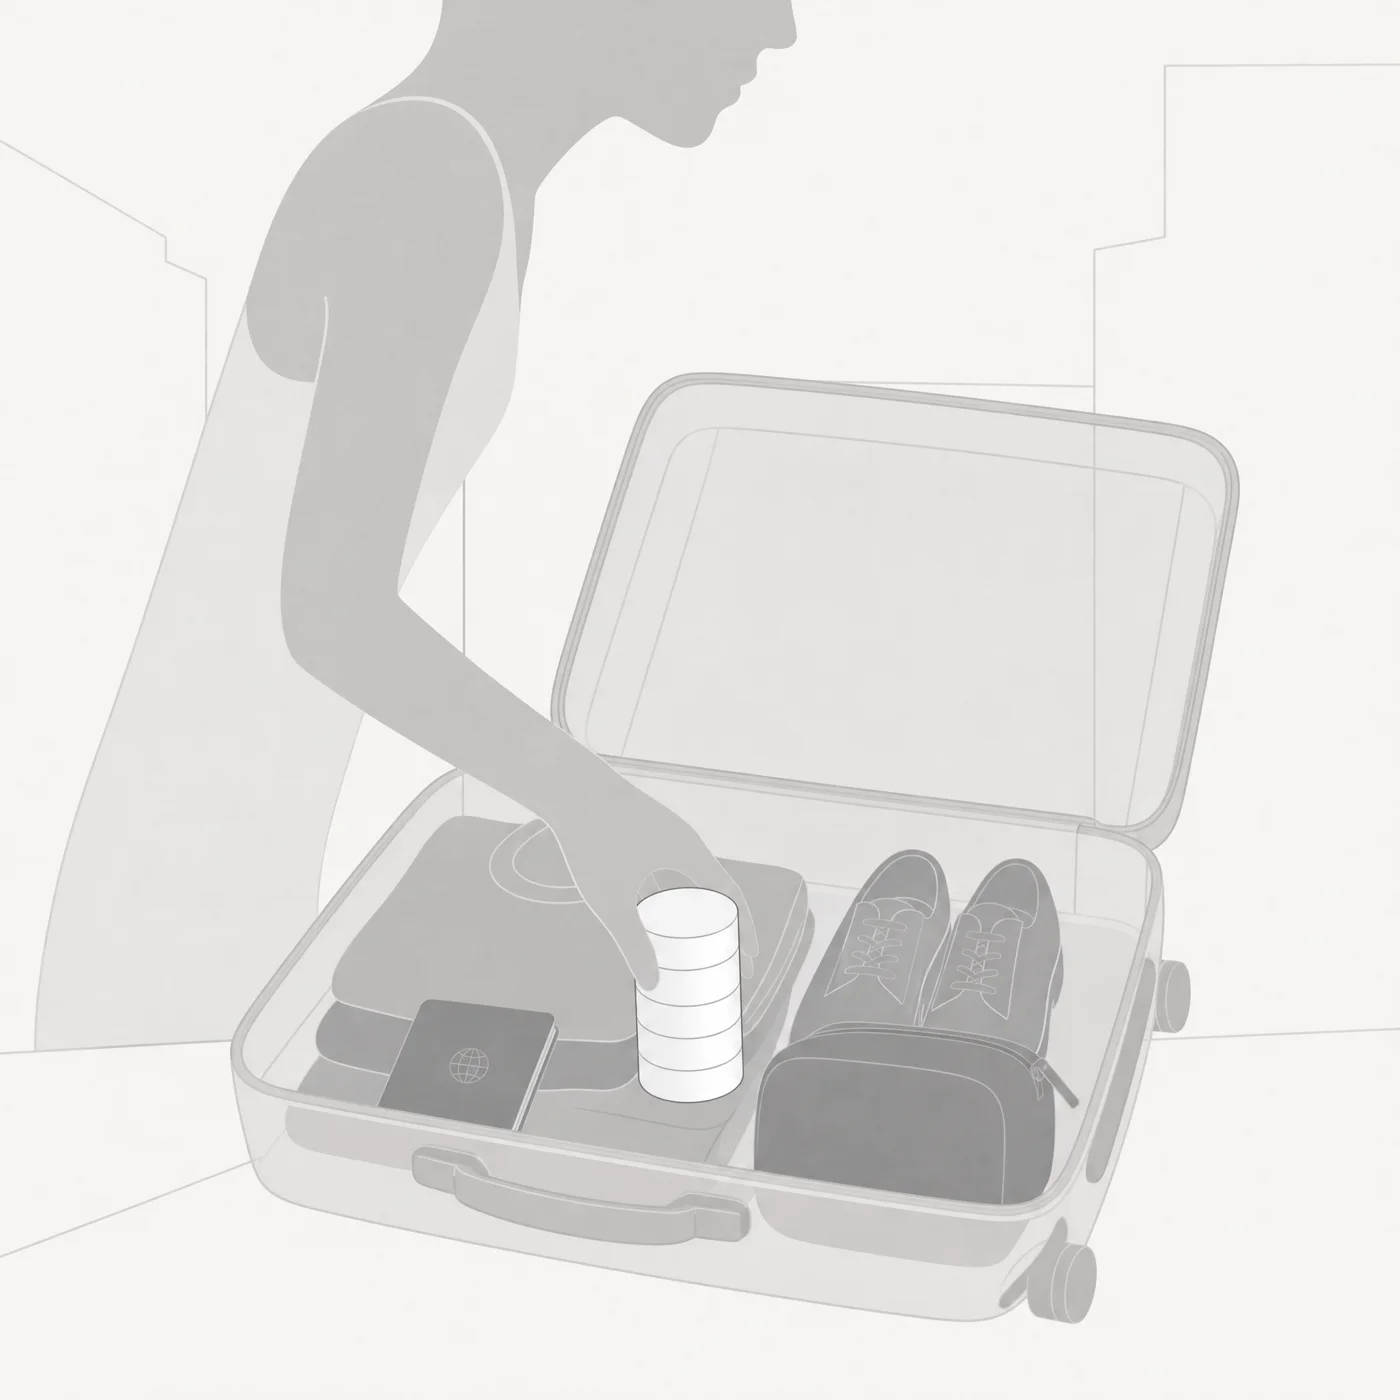
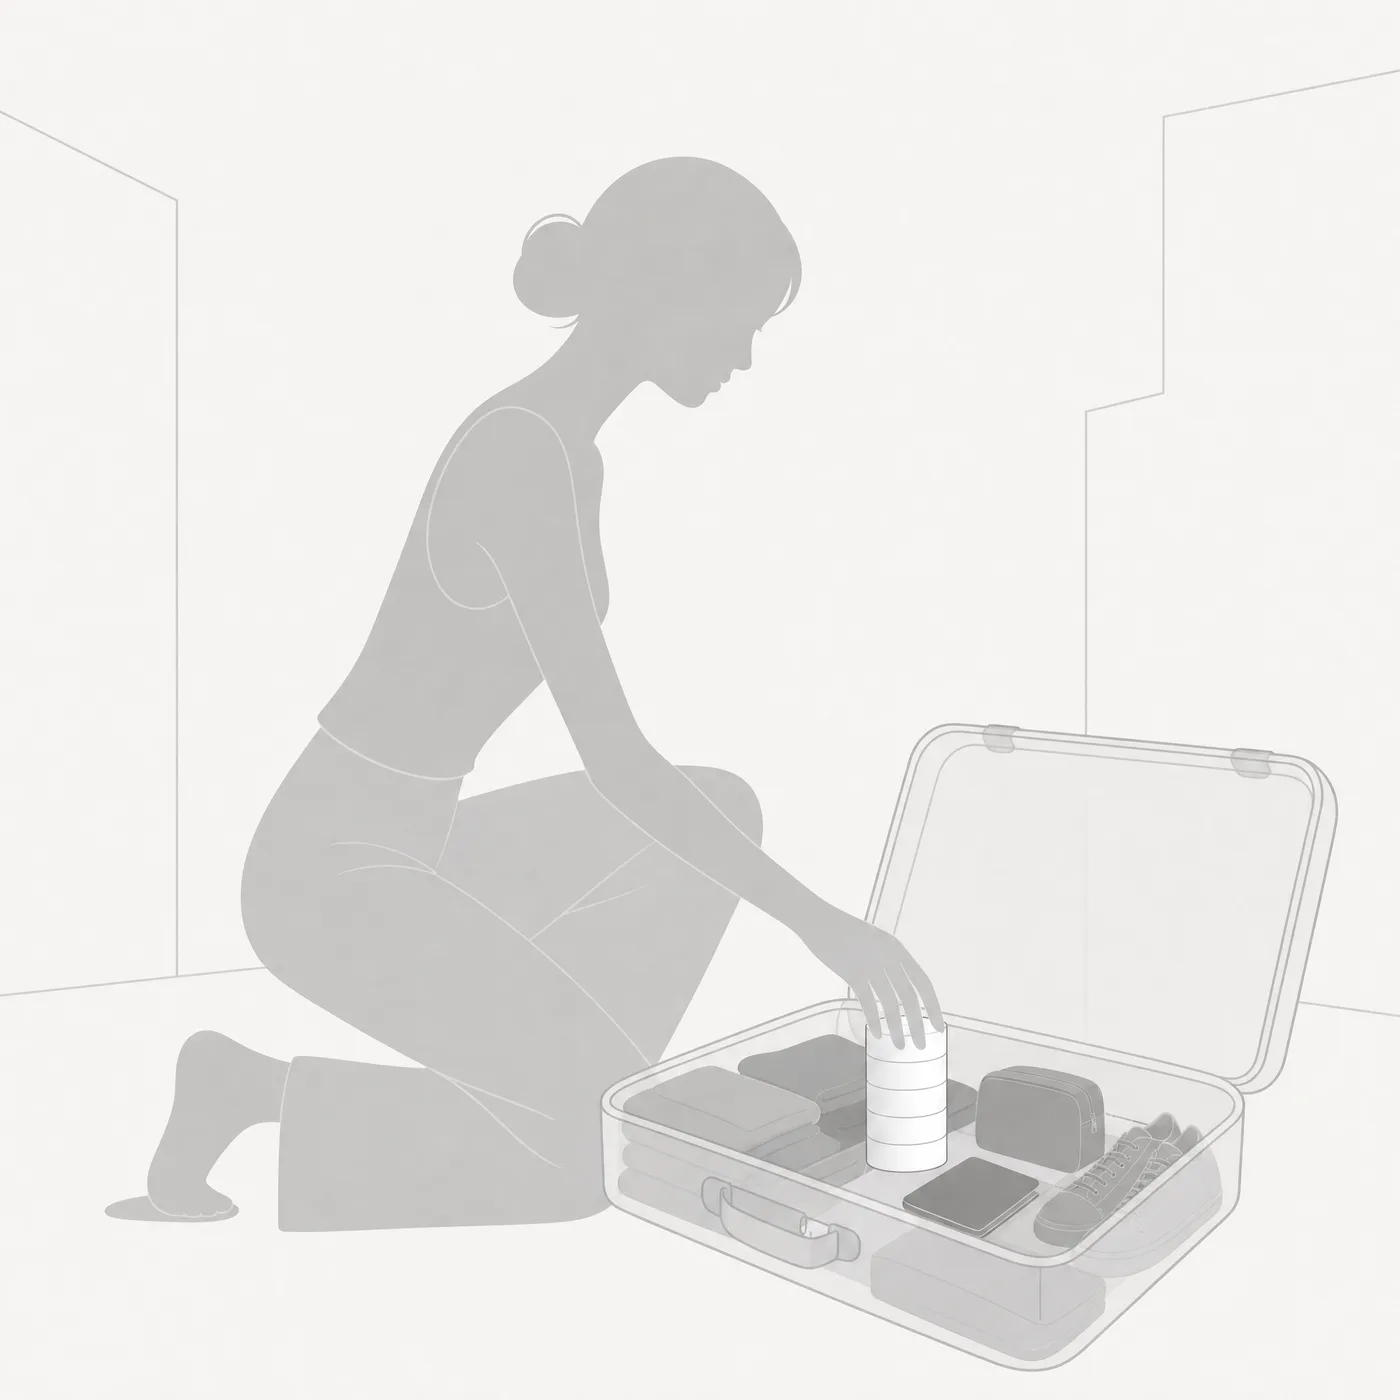
infinity: nouvelle illustration valise

Changed region(s): [[0.0614, 0.0, 0.9521, 0.9829], [0.8907, 0.6757, 0.9521, 0.7679], [0.1229, 0.2764, 0.1536, 0.3071]]

diff --git a/app/infinity/route.ts b/app/infinity/route.ts
@@ -278,7 +278,7 @@ footer img{width:96px;opacity:.9}
   <div class="tete rv"><div class="k">Infinity vous accompagne</div><h2 class="big">Votre mood.<br>Partout. <em>À l’infini.</em></h2></div>
   <div class="edito">
     <figure class="e1 rv"><img src="/infinity/vie/sac-a-main.webp" alt="Infinity dans un sac à main" loading="lazy"><figcaption><b>Dans votre sac</b>LE QUOTIDIEN</figcaption></figure>
-    <figure class="e2 rv"><img src="/infinity/vie/valise.webp" alt="Infinity dans une valise" loading="lazy"><figcaption><b>Dans la valise</b>LES VACANCES</figcaption></figure>
+    <figure class="e2 rv"><img src="/infinity/vie/valise.webp?v=3" alt="Infinity dans une valise" loading="lazy"><figcaption><b>Dans la valise</b>LES VACANCES</figcaption></figure>
     <figure class="e3 rv"><img src="/infinity/vie/trousse.webp" alt="Infinity dans une trousse de toilette" loading="lazy"><figcaption><b>Dans la trousse</b>LE WEEK-END</figcaption></figure>
     <figure class="e4 rv"><img src="/infinity/vie/coiffeuse.webp" alt="Infinity sur une coiffeuse" loading="lazy"><figcaption><b>Sur la coiffeuse</b>VOTRE COLLECTION</figcaption></figure>
     <figure class="e5 rv"><img src="/infinity/vie/table-de-nuit.webp" alt="Infinity sur une table de nuit" loading="lazy"><figcaption><b>Sur la table de nuit</b>CHAQUE MATIN</figcaption></figure>
